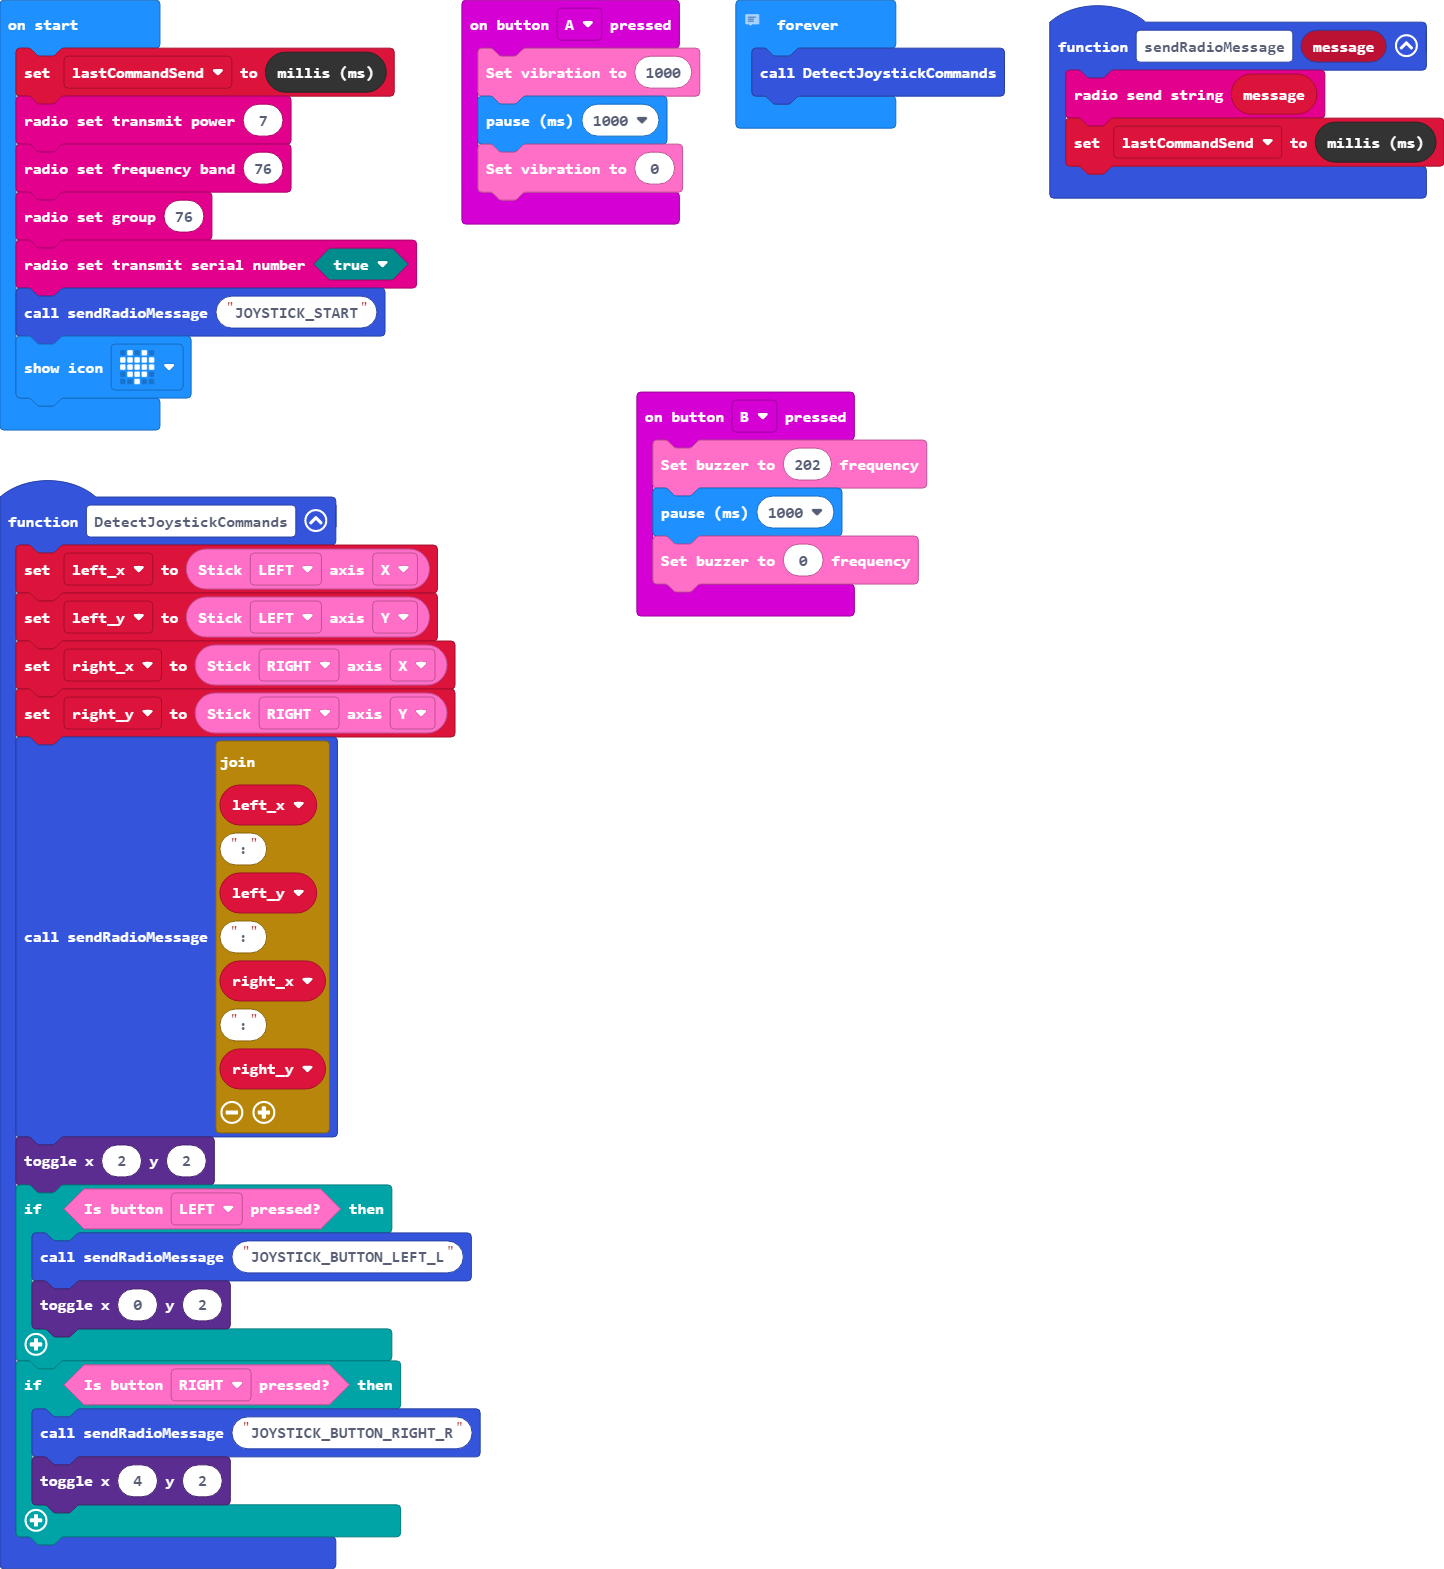
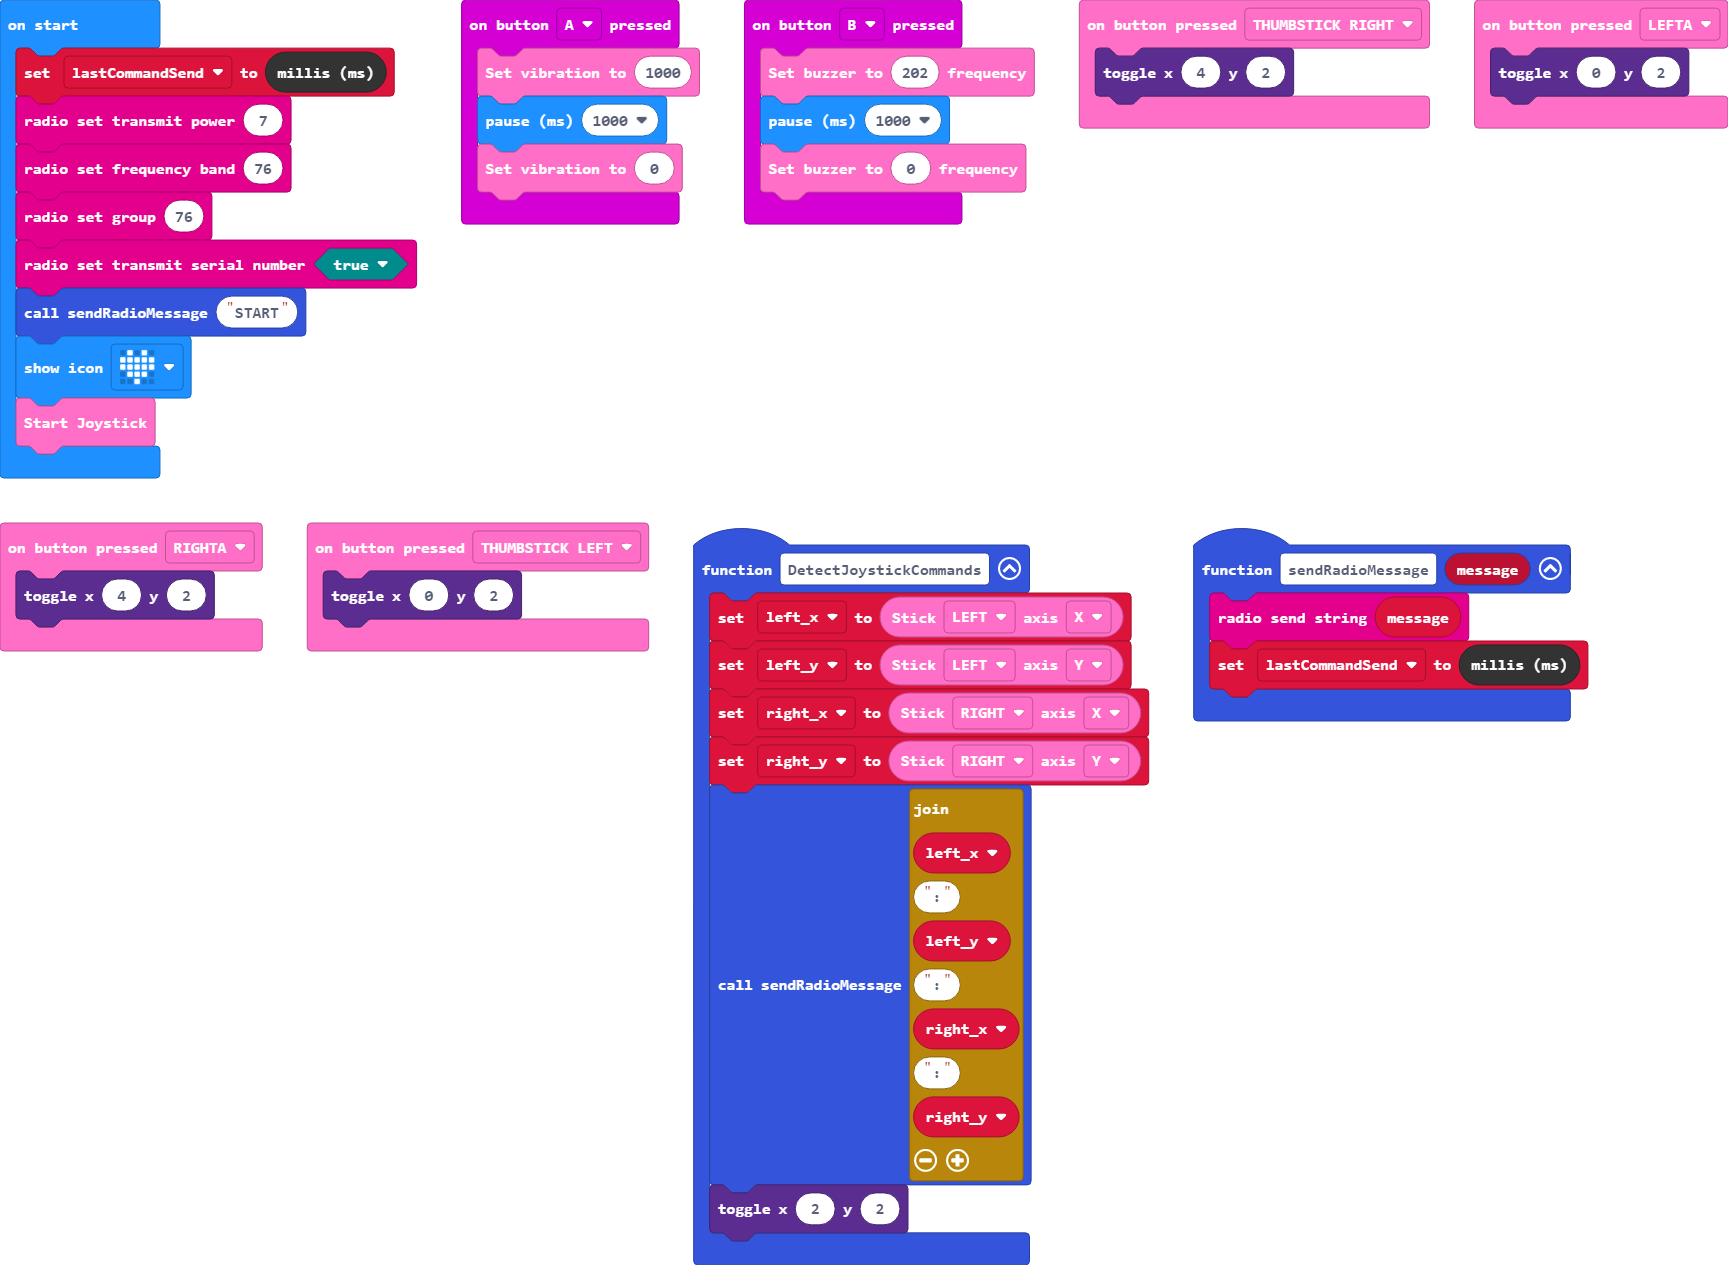
Update main.blocks, main.ts, joystickbit.ts

diff --git a/joystickbit.ts b/joystickbit.ts
@@ -3,9 +3,9 @@ enum buttons {
     THUMBSTICK_LEFT = 0,
     //% block="THUMBSTICK RIGHT" 
     THUMBSTICK_RIGHT = 1,
-    //% block="LEFTA"
+    //% block="LEFT"
     BUTTON_LEFT = 2,
-    //% block="RIGHTA" 
+    //% block="RIGHT" 
     BUTTON_RIGHT = 3,
 }
 
@@ -43,6 +43,21 @@ enum Stick {
 namespace joystick {
 
     let alreadyStarted = false;
+    const SWITCH_PRESSED = 5010;
+    const THUMBSTICK_LEFT_MOVED = 6010;
+    const THUMBSTICK_RIGHT_MOVED = 7010;
+    const pinOffset = 1000;
+    const centered = 128;
+    
+    let PREV_THUMBSTICK_LEFT = -1
+    let PREV_THUMBSTICK_RIGHT = -1
+    let PREV_BUTTON_LEFT = -1
+    let PREV_BUTTON_RIGHT = -1
+
+    let PREV_THUMBSTICK_LEFT_X = centered;
+    let PREV_THUMBSTICK_LEFT_Y = centered;
+    let PREV_THUMBSTICK_RIGHT_X = centered;
+    let PREV_THUMBSTICK_RIGHT_Y = centered;
 
     /**
       * Add into the start function to initialise the joystick.
@@ -57,32 +72,123 @@ namespace joystick {
             alreadyStarted = true;
         }
 
-        //set-up UART transmission loop
+        //set-up I2C fetch loop
         control.inBackground(function () {
             loops.everyInterval(10, function () {
-                BUTTON_LEFT = i2cread(JOYSTICK_I2C_ADDR, BUTTON_LEFT_REG);
-                BUTTON_RIGHT = i2cread(JOYSTICK_I2C_ADDR, BUTTON_RIGHT_REG);
-                JOYSTICK_BUTTON_LEFT = i2cread(JOYSTICK_I2C_ADDR, JOYSTICK_BUTTON_LEFT_REG);
-                JOYSTICK_BUTTON_RIGHT = i2cread(JOYSTICK_I2C_ADDR, JOYSTICK_BUTTON_RIGHT_REG);
 
-                JOYSTICK_LEFT_X = i2cread(JOYSTICK_I2C_ADDR, JOYSTICK_LEFT_X_REG);
-                JOYSTICK_LEFT_Y = i2cread(JOYSTICK_I2C_ADDR, JOYSTICK_LEFT_Y_REG);
-                JOYSTICK_RIGHT_X = i2cread(JOYSTICK_I2C_ADDR, JOYSTICK_RIGHT_X_REG);
-                JOYSTICK_RIGHT_Y = i2cread(JOYSTICK_I2C_ADDR, JOYSTICK_RIGHT_Y_REG);
+                BUTTON_LEFT = i2cread(THUMBSTICK_I2C_ADDR, BUTTON_LEFT_REG);
+                BUTTON_RIGHT = i2cread(THUMBSTICK_I2C_ADDR, BUTTON_RIGHT_REG);
+                THUMBSTICK_BUTTON_LEFT = i2cread(THUMBSTICK_I2C_ADDR, THUMBSTICK_BUTTON_LEFT_REG);
+                THUMBSTICK_BUTTON_RIGHT = i2cread(THUMBSTICK_I2C_ADDR, THUMBSTICK_BUTTON_RIGHT_REG);
+
+                //check for button clicks
+                if (PREV_THUMBSTICK_LEFT == 0 && THUMBSTICK_BUTTON_LEFT == 1) {
+                    control.raiseEvent(SWITCH_PRESSED + buttons.THUMBSTICK_LEFT, buttons.THUMBSTICK_LEFT + pinOffset)
+                }
+                PREV_THUMBSTICK_LEFT = THUMBSTICK_BUTTON_LEFT
+
+                if (PREV_BUTTON_LEFT == 0 && BUTTON_LEFT == 1) {
+                    control.raiseEvent(SWITCH_PRESSED + buttons.BUTTON_LEFT, buttons.BUTTON_LEFT + pinOffset)
+                }
+                PREV_BUTTON_LEFT = BUTTON_LEFT
+
+                if (PREV_THUMBSTICK_RIGHT == 0 && THUMBSTICK_BUTTON_RIGHT == 1) {
+                    control.raiseEvent(SWITCH_PRESSED + buttons.THUMBSTICK_RIGHT, buttons.THUMBSTICK_RIGHT + pinOffset)
+                }
+                PREV_THUMBSTICK_RIGHT = THUMBSTICK_BUTTON_RIGHT
+
+                if (PREV_BUTTON_RIGHT == 0 && BUTTON_RIGHT == 1) {
+                    control.raiseEvent(SWITCH_PRESSED + buttons.BUTTON_RIGHT, buttons.BUTTON_RIGHT + pinOffset)
+                }
+                PREV_BUTTON_RIGHT = BUTTON_RIGHT               
+
+               //thumbsticks
+                THUMBSTICK_LEFT_X = i2cread(THUMBSTICK_I2C_ADDR, THUMBSTICK_LEFT_X_REG);
+                THUMBSTICK_LEFT_Y = i2cread(THUMBSTICK_I2C_ADDR, THUMBSTICK_LEFT_Y_REG);
+                THUMBSTICK_RIGHT_X = i2cread(THUMBSTICK_I2C_ADDR, THUMBSTICK_RIGHT_X_REG);
+                THUMBSTICK_RIGHT_Y = i2cread(THUMBSTICK_I2C_ADDR, THUMBSTICK_RIGHT_Y_REG);
+
+                if (PREV_THUMBSTICK_LEFT_X != THUMBSTICK_LEFT_X || PREV_THUMBSTICK_LEFT_Y != THUMBSTICK_LEFT_Y) {
+                    control.raiseEvent(THUMBSTICK_LEFT_MOVED, THUMBSTICK_LEFT_X + THUMBSTICK_LEFT_Y);
+                }
+
+                if (PREV_THUMBSTICK_RIGHT_X != THUMBSTICK_RIGHT_X || PREV_THUMBSTICK_RIGHT_Y != THUMBSTICK_RIGHT_Y) {
+                    control.raiseEvent(THUMBSTICK_RIGHT_MOVED, THUMBSTICK_RIGHT_X + THUMBSTICK_RIGHT_Y);
+                }
+
+                PREV_THUMBSTICK_LEFT_X = THUMBSTICK_LEFT_X;
+                PREV_THUMBSTICK_LEFT_Y = THUMBSTICK_LEFT_Y;
+                PREV_THUMBSTICK_RIGHT_X = THUMBSTICK_RIGHT_X;
+                PREV_THUMBSTICK_RIGHT_Y = THUMBSTICK_RIGHT_Y;
             })
         })
     }
 
+    /**
+     * Do something when a button is pushed.
+     * @param button the button to be checked
+     * @param handler body code to run when the event is raised
+     */
+    //% block="on button pressed %button"
+    //% weight=65
+    export function onButtonPressed(
+        button: buttons,
+        handler: () => void
+    ) {
+        control.onEvent(
+            SWITCH_PRESSED + button,
+            EventBusValue.MICROBIT_EVT_ANY,
+            () => {
+                handler();
+            }
+        );
+    }
 
-    let JOYSTICK_LEFT_X = 0xff;
-    let JOYSTICK_LEFT_Y = 0xff;
-    let JOYSTICK_RIGHT_X = 0xff;
-    let JOYSTICK_RIGHT_Y = 0xff;
+    /**
+ * Do something when left thumbstick is moved.
+ * @param handler body code to run when the event is raised
+ */
+    //% block="on left thumbstick moved"
+    //% weight=65
+    export function onLeftThumbstickMoved(
+        handler: () => void
+    ) {
+        control.onEvent(
+            THUMBSTICK_LEFT_MOVED,
+            EventBusValue.MICROBIT_EVT_ANY,
+            () => {
+                handler();
+            }
+        );
+    }
+
+    /**
+* Do something when right thumbstick is moved.
+* @param handler body code to run when the event is raised
+*/
+    //% block="on right thumbstick moved"
+    //% weight=65
+    export function onRightThumbstickMoved(
+        handler: () => void
+    ) {
+        control.onEvent(
+            THUMBSTICK_RIGHT_MOVED,
+            EventBusValue.MICROBIT_EVT_ANY,
+            () => {
+                handler();
+            }
+        );
+    }
+
+    let THUMBSTICK_LEFT_X = 0xff;
+    let THUMBSTICK_LEFT_Y = 0xff;
+    let THUMBSTICK_RIGHT_X = 0xff;
+    let THUMBSTICK_RIGHT_Y = 0xff;
 
     let BUTTON_LEFT = 0xff;
     let BUTTON_RIGHT = 0xff;
-    let JOYSTICK_BUTTON_RIGHT = 0xff;
-    let JOYSTICK_BUTTON_LEFT = 0xff;
+    let THUMBSTICK_BUTTON_RIGHT = 0xff;
+    let THUMBSTICK_BUTTON_LEFT = 0xff;
 
     let i2cAddr: number
     let BK: number
@@ -167,17 +273,17 @@ namespace joystick {
         return gm;
     }
 
-    let JOYSTICK_I2C_ADDR = 0x5A;
+    let THUMBSTICK_I2C_ADDR = 0x5A;
 
-    let JOYSTICK_LEFT_X_REG = 0x10;
-    let JOYSTICK_LEFT_Y_REG = 0x11;
-    let JOYSTICK_RIGHT_X_REG = 0x12;
-    let JOYSTICK_RIGHT_Y_REG = 0x13;
+    let THUMBSTICK_LEFT_X_REG = 0x10;
+    let THUMBSTICK_LEFT_Y_REG = 0x11;
+    let THUMBSTICK_RIGHT_X_REG = 0x12;
+    let THUMBSTICK_RIGHT_Y_REG = 0x13;
 
     let BUTTON_LEFT_REG = 0x22;
     let BUTTON_RIGHT_REG = 0x23;
-    let JOYSTICK_BUTTON_RIGHT_REG = 0x21;
-    let JOYSTICK_BUTTON_LEFT_REG = 0x20;
+    let THUMBSTICK_BUTTON_RIGHT_REG = 0x21;
+    let THUMBSTICK_BUTTON_LEFT_REG = 0x20;
 
     let NONE_PRESS = 8;
 
@@ -188,9 +294,9 @@ namespace joystick {
             case 1:
                 return BUTTON_RIGHT;
             case 2:
-                return JOYSTICK_BUTTON_LEFT;
+                return THUMBSTICK_BUTTON_LEFT;
             case 3:
-                return JOYSTICK_BUTTON_RIGHT;
+                return THUMBSTICK_BUTTON_RIGHT;
             default:
                 return 0xff;
         }
@@ -249,15 +355,15 @@ namespace joystick {
         let val = 0;
         if (stick == 0) {
             if (axial == 0) {
-                val =  JOYSTICK_LEFT_X;
+                val =  THUMBSTICK_LEFT_X;
             } else {
-                val =  JOYSTICK_LEFT_Y;
+                val =  THUMBSTICK_LEFT_Y;
             }
         } else {
             if (axial == 0) {
-                val =  JOYSTICK_RIGHT_X;
+                val =  THUMBSTICK_RIGHT_X;
             } else {
-                val =  JOYSTICK_RIGHT_Y;
+                val =  THUMBSTICK_RIGHT_Y;
             }
         }
         return val;

diff --git a/main.ts b/main.ts
@@ -1,84 +1,67 @@
+joystick.onButtonPressed(buttons.THUMBSTICK_LEFT, function () {
+    led.toggle(0, 2)
+})
+
 input.onButtonPressed(Button.A, function () {
     joystick.Gamepad_shock(1000)
     basic.pause(1000)
     joystick.Gamepad_shock(0)
 })
 
-let prev_thumbstick_left = -1
-let prev_thumbstick_right = -1
-let prev_button_left = -1
-let prev_button_right = -1
+joystick.onLeftThumbstickMoved(function () {
+    let left_x = joystick.ReadStickAxis(Stick.LEFT, Axis.X_AXIS)
+    let left_y = joystick.ReadStickAxis(Stick.LEFT, Axis.Y_AXIS)
 
-function DetectJoystickCommands () {
-    left_x = joystick.ReadStickAxis(Stick.LEFT, Axis.X_AXIS)
-    left_y = joystick.ReadStickAxis(Stick.LEFT, Axis.Y_AXIS)
-    right_x = joystick.ReadStickAxis(Stick.RIGHT, Axis.X_AXIS)
-    right_y = joystick.ReadStickAxis(Stick.RIGHT, Axis.Y_AXIS)
-    sendRadioMessage("" + left_x + ":" + left_y + ":" + right_x + ":" + right_y)
+    sendRadioMessage(left_x + ":" + left_y)
     led.toggle(2, 2)
-    
-    let thumbstick_left = joystick.buttonStatus(buttons.THUMBSTICK_LEFT)
-    let thumbstick_right = joystick.buttonStatus(buttons.THUMBSTICK_RIGHT)
-    let button_left = joystick.buttonStatus(buttons.BUTTON_LEFT)
-    let button_right = joystick.buttonStatus(buttons.BUTTON_RIGHT)
 
-    serial.writeValue("TL", thumbstick_left)
-    serial.writeValue("TR", thumbstick_right)
-    serial.writeValue("BL", button_left)
-    serial.writeValue("BR", button_right )
+    //serial.writeValue("left_x", left_x)
+    //serial.writeValue("left_y", left_y)
+})
 
-    //check for button clicks
-    if (prev_thumbstick_left == 0 && thumbstick_left == 1){
-        led.toggle(0, 2)
-    }
-    prev_thumbstick_left = thumbstick_left
+joystick.onRightThumbstickMoved(function () {
 
-    if (prev_button_left == 0 && button_left == 1) {
-        led.toggle(0, 2)
-    }
-    prev_button_left = button_left
+    let right_x = joystick.ReadStickAxis(Stick.RIGHT, Axis.X_AXIS)
+    let right_y = joystick.ReadStickAxis(Stick.RIGHT, Axis.Y_AXIS)
 
-    if (prev_thumbstick_right == 0 && thumbstick_right == 1) {
-        led.toggle(4, 2)
-    }
-    prev_thumbstick_right = thumbstick_right
+    sendRadioMessage(right_x + ":" + right_y)
+    led.toggle(2, 2)
 
-    if (prev_button_right == 0 && button_right == 1) {
-        led.toggle(4, 2)
-    }
-    prev_button_right = button_right
+    //serial.writeValue("right_x", right_x)
+    //serial.writeValue("right_y", right_y)
+})
 
-    // if (joystick.buttonStatus(buttons.BUTTON_LEFT_L) == key_status.SINGLE_CLICK ) {
-    //     sendRadioMessage("BUTTON_LEFT_L")
-    //     led.toggle(0, 2)
-    // }
-    // if (joystick.isButtonPressed(buttons.BUTTON_RIGHT_R)) {
-    //     sendRadioMessage("BUTTON_RIGHT_R")
-    //     led.toggle(4, 2)
-    // }
-}
 input.onButtonPressed(Button.B, function () {
     joystick.SetBuzzer(202)
     basic.pause(1000)
     joystick.SetBuzzer(0)
 })
-function sendRadioMessage (message: string) {
+
+function sendRadioMessage(message: string) {
     radio.sendString(message)
     lastCommandSend = control.millis()
 }
-let right_y = 0
-let right_x = 0
-let left_y = 0
-let left_x = 0
-let lastCommandSend = 0
-lastCommandSend = control.millis()
-radio.setTransmitPower(7)
-radio.setFrequencyBand(76)
-radio.setGroup(76)
-radio.setTransmitSerialNumber(true)
-sendRadioMessage("START")
-basic.showIcon(IconNames.Heart)
-// basic.pause(100)
-basic.forever(function () {
-    DetectJoystickCommands()
+joystick.onButtonPressed(buttons.BUTTON_LEFT, function () {
+    led.toggle(0, 2)
 })
+joystick.onButtonPressed(buttons.BUTTON_RIGHT, function () {
+    led.toggle(4, 2)
+})
+joystick.onButtonPressed(buttons.THUMBSTICK_RIGHT, function () {
+    led.toggle(4, 2)
+})
+
+function initRadio(message: string) {
+
+    radio.setTransmitPower(7)
+    radio.setFrequencyBand(76)
+    radio.setGroup(76)
+    radio.setTransmitSerialNumber(true)
+    sendRadioMessage(message)
+}
+
+let lastCommandSend = 0
+
+basic.showIcon(IconNames.Heart)
+joystick.start()
+initRadio("START")
